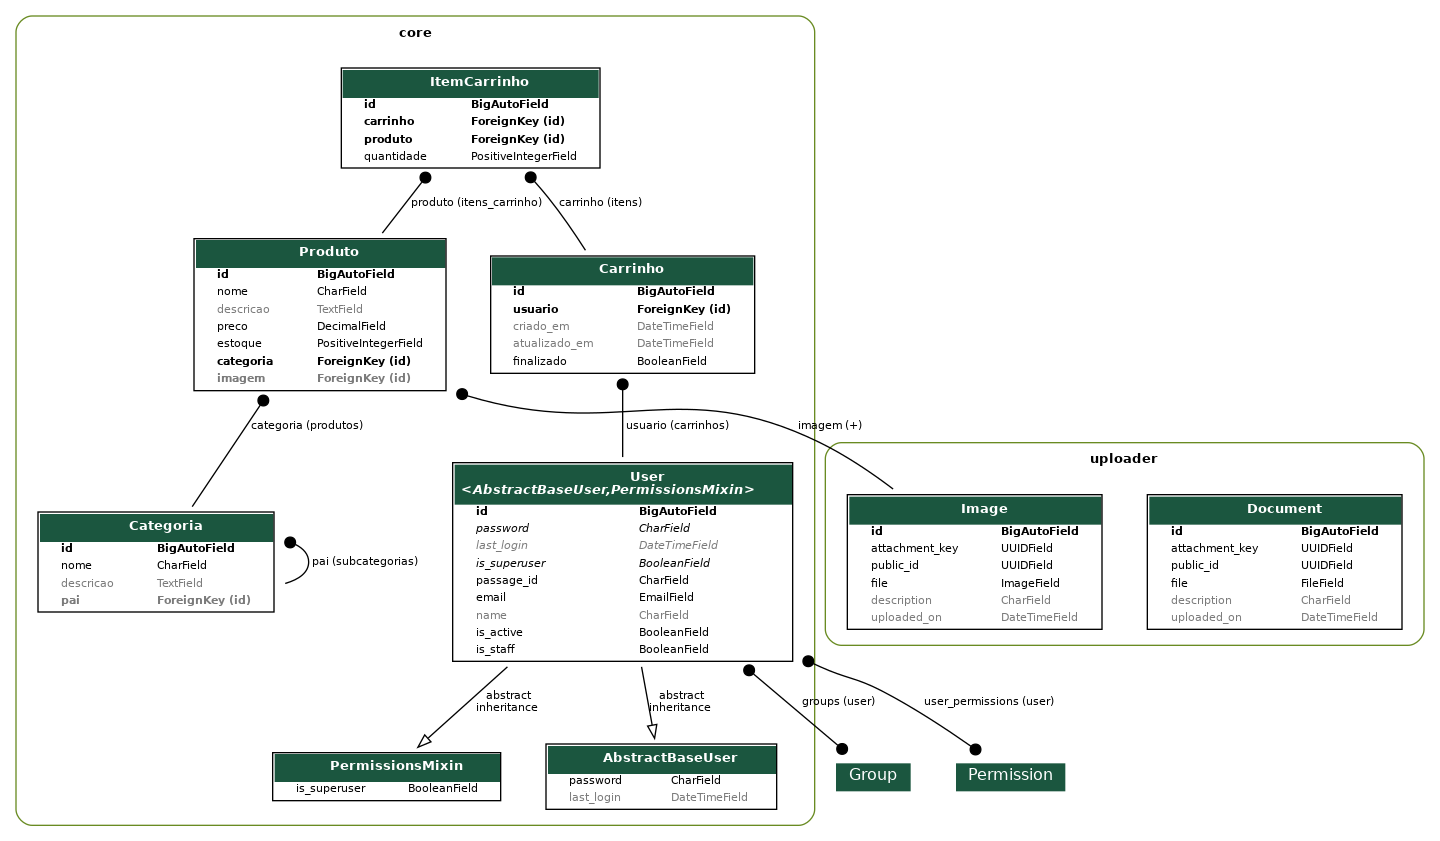
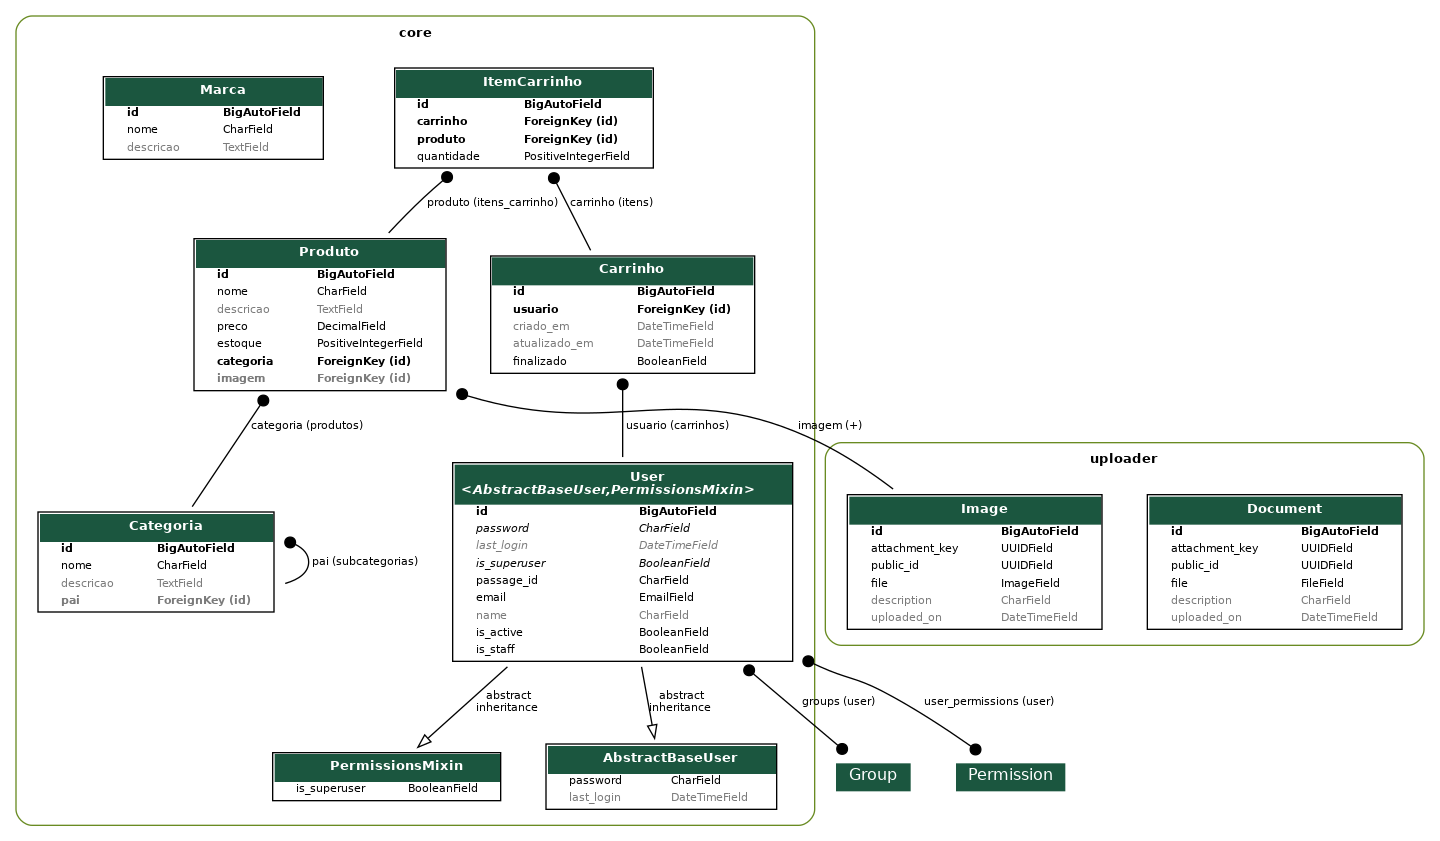
feat: criação da model Marca #3

Changed region(s): [[0.0625, 0.0618, 0.4688, 0.2782], [0.25, 0.2473, 0.2812, 0.2782]]

diff --git a/app/urls.py b/app/urls.py
@@ -10,7 +10,7 @@ from drf_spectacular.views import (
 from rest_framework.routers import DefaultRouter
 from uploader.router import router as uploader_router
 
-from core.views import UserViewSet, CategoriaViewSet, ProdutoViewSet, CarrinhoViewSet, ItemCarrinhoViewSet
+from core.views import UserViewSet, CategoriaViewSet, ProdutoViewSet, CarrinhoViewSet, ItemCarrinhoViewSet, MarcaViewSet
 router = DefaultRouter()
 
 router.register(r'usuarios', UserViewSet, basename='usuarios')
@@ -18,6 +18,7 @@ router.register(r'categorias', CategoriaViewSet, basename='categorias')
 router.register(r'produtos', ProdutoViewSet, basename='produtos')
 router.register(r'carrinhos', CarrinhoViewSet, basename='carrinhos')
 router.register(r'itens-carrinho', ItemCarrinhoViewSet, basename='itens-carrinho')
+router.register(r'marcas', MarcaViewSet, basename='marcas')
 
 urlpatterns = [
     path('admin/', admin.site.urls),

diff --git a/core/migrations/0010_marca.py b/core/migrations/0010_marca.py
@@ -1,0 +1,26 @@
+# Generated by Django 5.2.3 on 2025-09-09 18:59
+
+from django.db import migrations, models
+
+
+class Migration(migrations.Migration):
+
+    dependencies = [
+        ('core', '0009_categoria_pai'),
+    ]
+
+    operations = [
+        migrations.CreateModel(
+            name='Marca',
+            fields=[
+                ('id', models.BigAutoField(auto_created=True, primary_key=True, serialize=False, verbose_name='ID')),
+                ('nome', models.CharField(max_length=100, unique=True)),
+                ('descricao', models.TextField(blank=True, null=True)),
+            ],
+            options={
+                'verbose_name': 'Marca',
+                'verbose_name_plural': 'Marcas',
+                'ordering': ['nome'],
+            },
+        ),
+    ]

diff --git a/core/models/marca.py b/core/models/marca.py
@@ -1,0 +1,13 @@
+from django.db import models
+
+class Marca(models.Model):
+    nome = models.CharField(max_length=100, unique=True)
+    descricao = models.TextField(blank=True, null=True)
+
+    def __str__(self):
+        return self.nome
+
+    class Meta:
+        verbose_name = "Marca"
+        verbose_name_plural = "Marcas"
+        ordering = ["nome"]

diff --git a/core/serializers/categoria.py b/core/serializers/categoria.py
@@ -1,7 +1,10 @@
 from rest_framework.serializers import ModelSerializer
+from rest_framework import serializers
 from core.models import Categoria
 
 class CategoriaSerializer(ModelSerializer):
+    subcategorias = serializers.StringRelatedField(many=True, read_only=True)
+    
     class Meta:
         model = Categoria
         fields = "__all__"

diff --git a/core/views/marca.py b/core/views/marca.py
@@ -1,0 +1,7 @@
+from rest_framework.viewsets import ModelViewSet
+from core.models import Marca
+from core.serializers import MarcaSerializer
+
+class MarcaViewSet(ModelViewSet):
+    queryset = Marca.objects.all()
+    serializer_class = MarcaSerializer

diff --git a/core/admin.py b/core/admin.py
@@ -56,3 +56,5 @@ admin.site.register(models.Categoria)
 admin.site.register(models.Produto)
 admin.site.register(models.Carrinho)
 admin.site.register(models.ItemCarrinho)
+admin.site.register(models.Marca)
+admin.site.site_header = "ByCrib Admin"

diff --git a/core/serializers/__init__.py b/core/serializers/__init__.py
@@ -2,3 +2,4 @@ from .user import UserSerializer
 from .categoria import CategoriaSerializer
 from .produto import ProdutoSerializer
 from .carrinho import CarrinhoSerializer, ItemCarrinhoSerializer
+from .marca import MarcaSerializer

diff --git a/core/serializers/marca.py b/core/serializers/marca.py
@@ -1,0 +1,7 @@
+from rest_framework.serializers import ModelSerializer
+from core.models import Marca
+
+class MarcaSerializer(ModelSerializer):
+    class Meta:
+        model = Marca
+        fields = "__all__"

diff --git a/core/views/__init__.py b/core/views/__init__.py
@@ -3,3 +3,4 @@ from .categoria import CategoriaViewSet
 from .produto import ProdutoViewSet
 from .carrinho import CarrinhoViewSet
 from .item_carrinho import ItemCarrinhoViewSet
+from .marca import MarcaViewSet

diff --git a/core/models/__init__.py b/core/models/__init__.py
@@ -3,3 +3,4 @@ from .categoria import Categoria
 from .produto import Produto
 from .carrinho import Carrinho
 from .item_carrinho import ItemCarrinho
+from .marca import Marca
